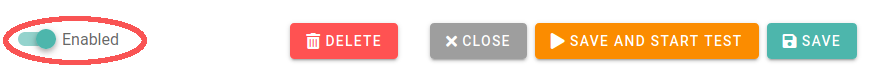
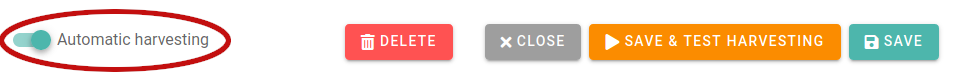
update the sushi wizard to include current version of screenshots and button labels - fixes #134

Changed region(s): [[0.3089, 0.2785, 0.9886, 0.7848], [0.0, 0.1013, 0.2471, 0.9114]]

diff --git a/design/ui/src/components/help/FirstSushiHelpWidget.vue b/design/ui/src/components/help/FirstSushiHelpWidget.vue
@@ -27,7 +27,7 @@ en:
     step4: Test your credentials
     step4_text: After you put your credentials into Celus, we strongly advise to test them
         immediately. You can do so by clicking the
-        <strong>Save and test credentials</strong>
+        <strong>Save & test harvesting</strong>
         button in the SUSHI credentials edit dialog. Then select one month in the near past
         and try to download the data. You will get a progress-bar for each download and
         very quickly receive a reply from the server. If there is any problem, please get back
